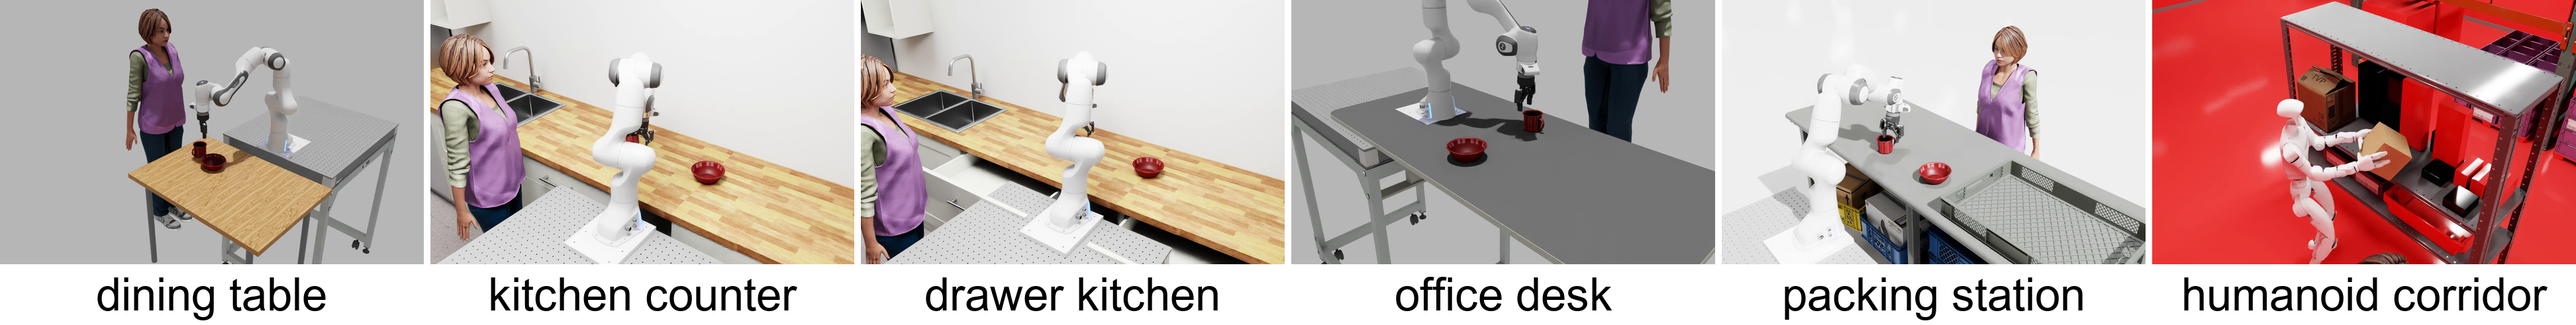
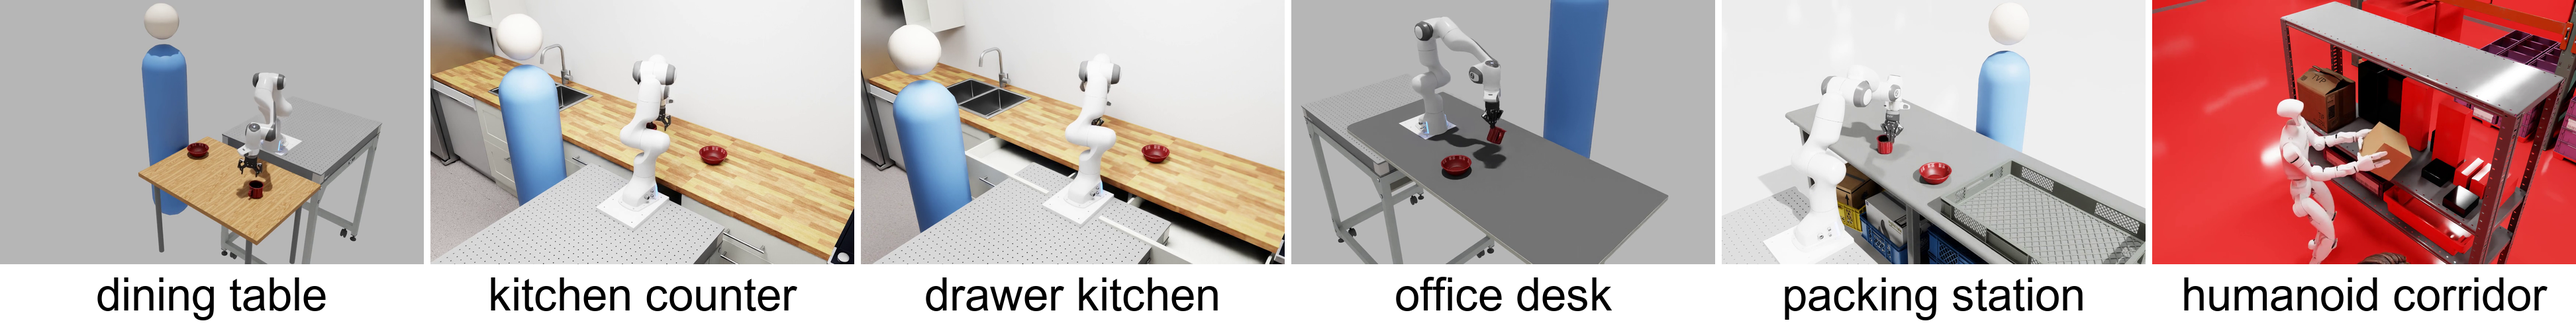
paper v2.2: Figure 2 shows the five work surfaces as scored (capsule body) instead of demonstration renders; caption says where the bystander is outside the policy cameras' frames

Changed region(s): [[0.0311, 0.0, 0.6843, 0.8232], [0.6843, 0.061, 0.8087, 0.4878]]

diff --git a/docs/paper_v2/sections/benchmark.tex b/docs/paper_v2/sections/benchmark.tex
@@ -18,7 +18,7 @@ They change lighting and backdrop, not the room.
 \begin{figure}[t]
 \centering
 \includegraphics[width=\linewidth]{figures/fig_scenes.png}
-\caption{\textbf{The five work surfaces and the humanoid corridor,} from demonstration renders with a rendered adult; in scored cells the person is a capsule body (Fig.~\ref{figB:tabletop}).}
+\caption{\textbf{The five work surfaces as scored, and the humanoid corridor.} Blue: the bystander's capsule body; at the two kitchen surfaces it stands outside the policy cameras' frames (Fig.~\ref{figB:view}).}
 \label{fig:scenes}
 \end{figure}
 
